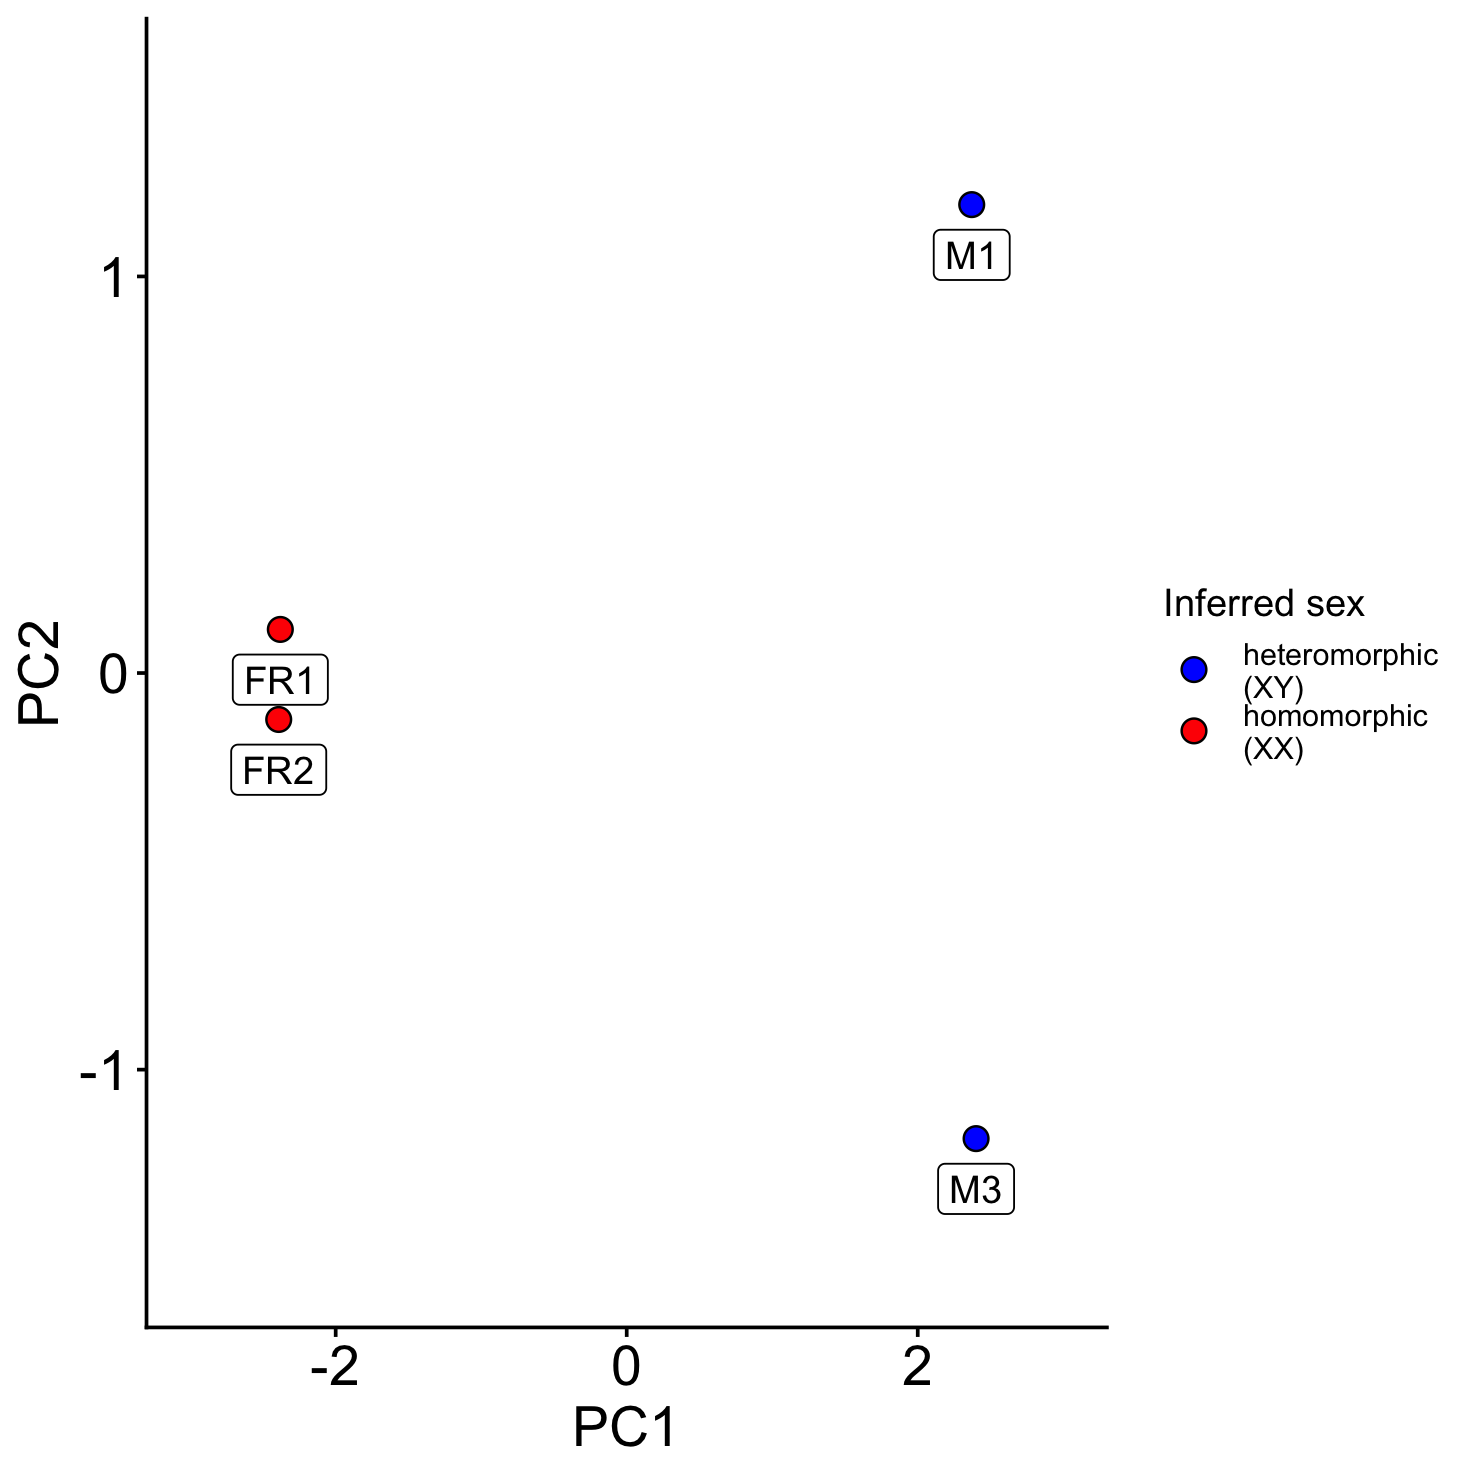
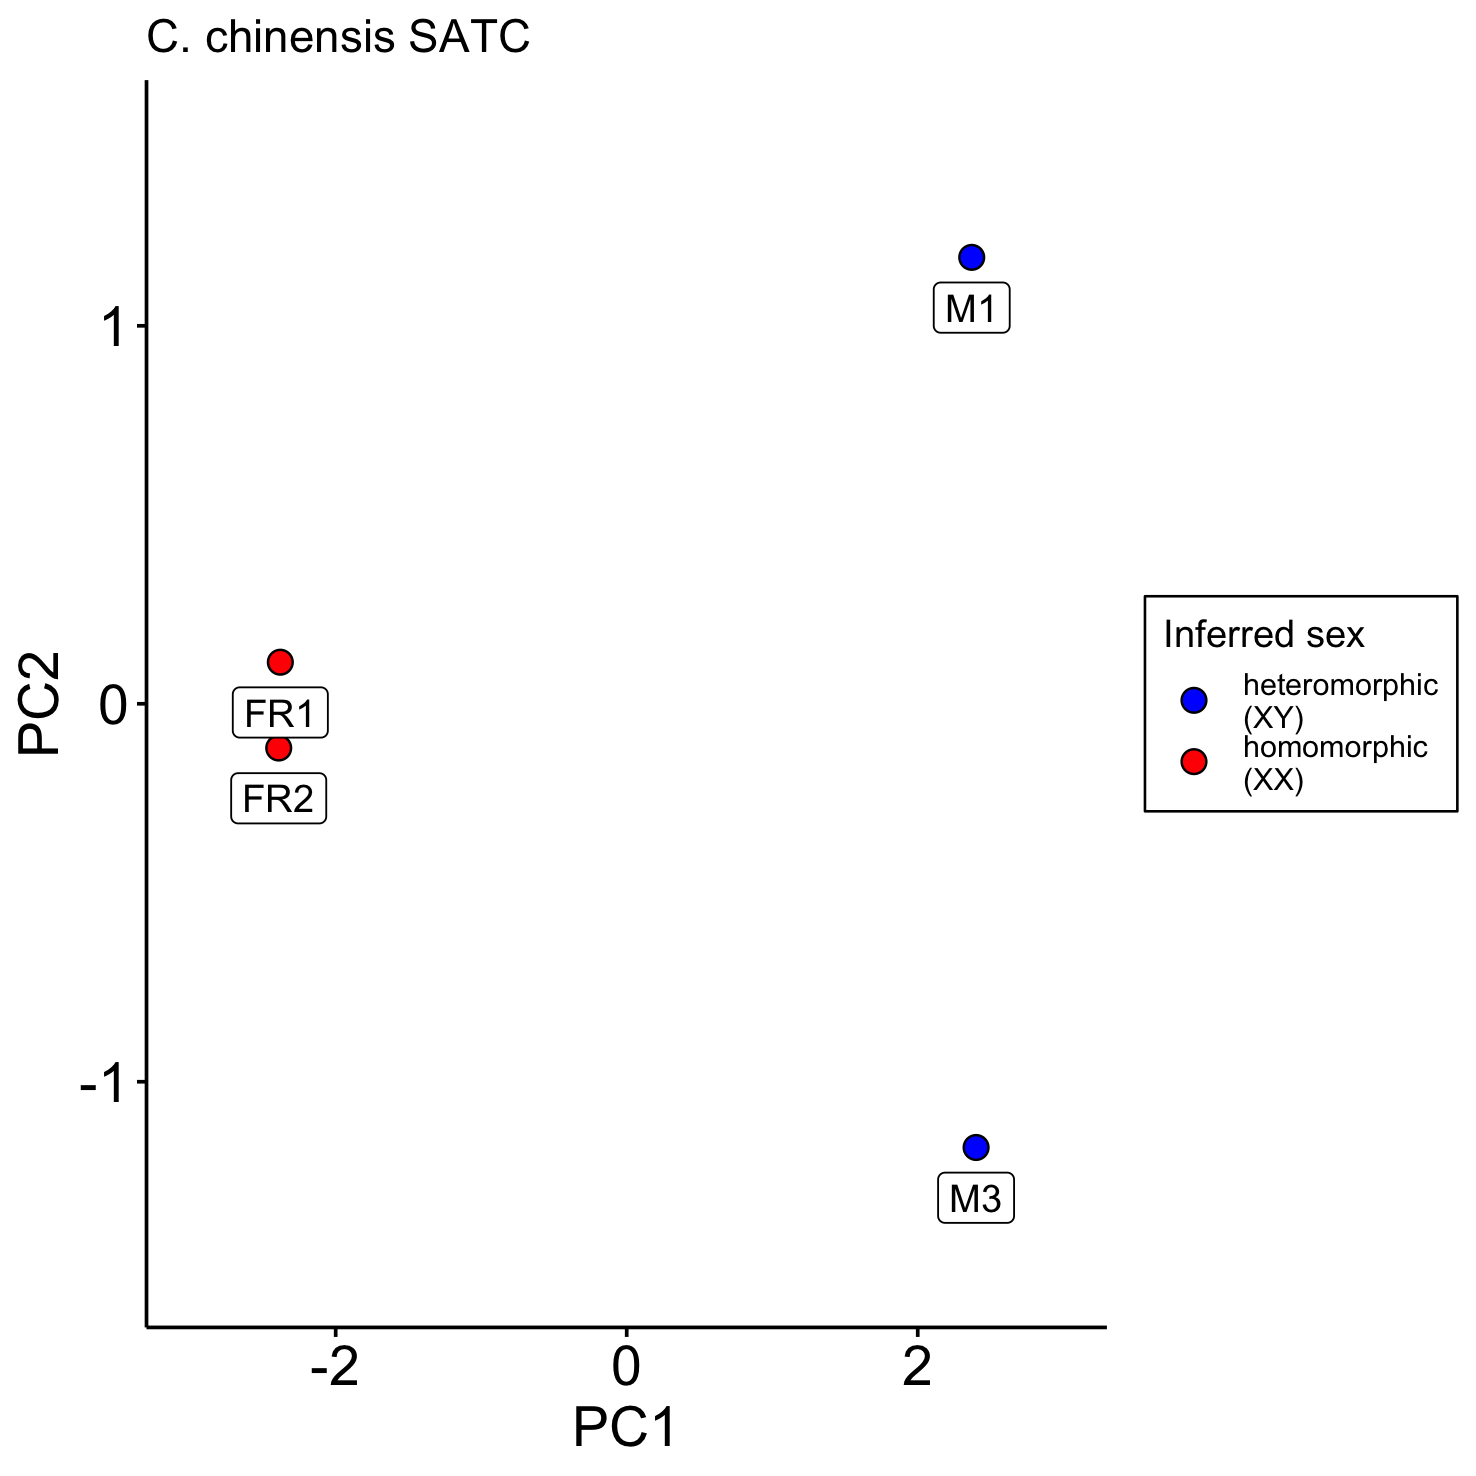
update the contig lists

diff --git a/index.html b/index.html
@@ -239,7 +239,20 @@ obtectus/obtectus/Sample_VA-3193-LEfixed_M.sort.MarkDup.RG.filter.bam.idxstats</
         </p>
     </div>
     <div style="clear: both;"></div>
+    <p style="padding-top: 1em;"><b>Results:</b></p>
+    <div class="left-div">
+        <p float="left">
+            <img loading="lazy" src="data/SATC/contig_coverage_sex_ratio_analis.png" width="100%" />
+        </p>
+    </div>
+    <div class="right-div">
+        <p>Table with contig lists assigned to X and Y: <code>data/SATC/contig_coverage_sex_ratio_analis.csv</code></p>
+        <div id="analis_SATC_res_table" class="tableframe"></div>
+        <script>loadCSVTable("data/SATC/contig_coverage_sex_ratio_analis.csv", "analis_SATC_res_table");</script>
+    </div>
+    <div style="clear: both;"></div>
 </div>
+
 
 <div id="SATC_res_C_chinensis" class="tabcontent">
     <p>
@@ -260,6 +273,24 @@ coleoptera_samples/chinensis-M3new_ref.bam.idxstats </code></pre>
 "chinensis-M1new_ref.bam.idxstats"  "heteromorphic"
 "chinensis-M3new_ref.bam.idxstats"  "heteromorphic"</code></pre>
     </p>
+    <p style="padding-top: 1em;"></p>
+    <p>PCA plot (females are labelled <code>FR</code> because the sexing in the original pooled samples was not 100% right and I had to sequence more).</p>
+    <p float="left">
+        <img loading="lazy" src="data/SATC/sexing_PCA_chinensis_all_samples.png" width="35%" />
+    </p>
+
+    <p style="padding-top: 1em;"><b>Results:</b></p>
+    <div class="left-div">
+        <p float="left">
+            <img loading="lazy" src="data/SATC/contig_coverage_sex_ratio_chinensis.png" width="100%" />
+        </p>
+    </div>
+    <div class="right-div">
+        <p>Table with contig lists assigned to X and Y: <code>data/SATC/contig_coverage_sex_ratio_chinensis.csv</code></p>
+        <div id="chinensis_SATC_res_table" class="tableframe"></div>
+        <script>loadCSVTable("data/SATC/contig_coverage_sex_ratio_chinensis.csv", "chinensis_SATC_res_table");</script>
+    </div>
+    <div style="clear: both;"></div>
 </div>
 
 </div>
